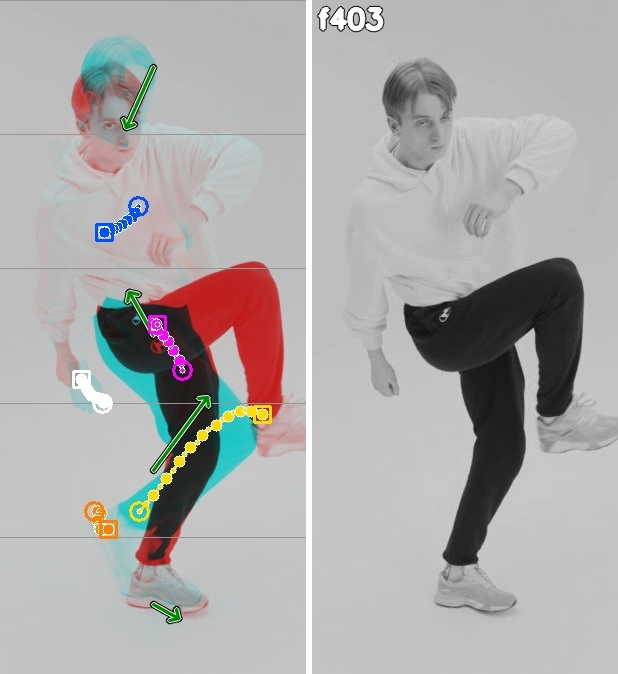
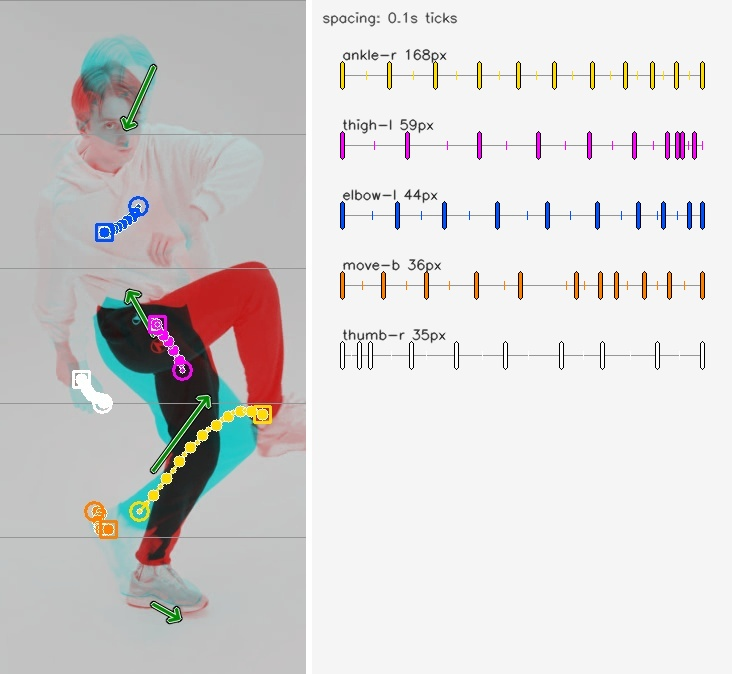
Onion: spacing chart; unlabelled mark trails; peak panel opt-in
- Each onion (look and mark) ends with an animator-style spacing chart: one
  equal-length line per trail, path length laid out along it, thick tick
  every 0.1 s. Steps under hold_step_px and jumps over missing frames add
  nothing; parts under 15 px are listed as still in their colour.
- mark onion: no on-picture names (they hid the trails); chart rows and
  mark.md (colour = name) carry the mapping. Camera-unknown mark onion is
  drawn in screen coordinates instead of being skipped.
- The frame-most-unlike-the-start panel is off by default; --peak on look
  and mark turns it on, placed left of the onion. Legends follow.
- README images/captions, guide, look-notes, manifest.

diff --git a/image_lens/onion.py b/image_lens/onion.py
@@ -136,6 +136,67 @@ def ticks(frames, fps):
     return out
 
 
+# The timing dots still merged where a part moved only a little (README examples: steps shorter than a dot). An
+# animator's spacing chart stretches each trail's path to one fixed-length line, so a 20 px move reads like a 300 px one.
+SPACING = dict(width=420, height=680, row=70, min_px=15., margin=30)
+
+
+def spacing_rows(trails, fps):
+    """[{point, length, ticks: [(fraction, timed)]}, ...] and the names of parts too still to chart. Path length grows
+    only by steps of at least motion_report STROKE['hold_step_px'], so a held part's jitter does not read as motion."""
+    from image_lens import motion_report
+    still = motion_report.STROKE['hold_step_px']; rows, skipped = [], []
+    for t in trails:
+        xy = [(x, y) for _, x, y in t['xy']]; frames = [n for n, _, _ in t['xy']]
+        cum = [0.]  # a jump over missing frames is not travel the chart can time (mark trial: one lost corner read 326 px)
+        for (a, b), (n, m) in zip(zip(xy, xy[1:]), zip(frames, frames[1:])):
+            d = math.dist(a, b) if m == n+1 else 0.; cum.append(cum[-1]+(d if d >= still else 0.))
+        if cum[-1] < SPACING['min_px']:
+            skipped.append(t['point']); continue
+        timed = ticks(frames, fps)
+        rows.append(dict(point=t['point'], length=cum[-1], ticks=[(c/cum[-1], i in timed or i == 0) for i, c in enumerate(cum)]))
+    return rows, skipped
+
+
+def spacing(video, image, trails, colors=None):
+    """Append the spacing chart right of the onion image: one equal-length line per trail, a thick tick every
+    TRAILS['tick_seconds'] and a thin one per frame at the fraction of path covered; close ticks = slow."""
+    import cv2
+    import numpy as np
+    picture = cv2.imread(str(image))
+    if picture is None or not trails:
+        return None
+    capture = cv2.VideoCapture(str(video)); fps = capture.get(cv2.CAP_PROP_FPS); capture.release()
+    rows, skipped = spacing_rows(trails, fps)
+    if not rows:
+        return None
+    h = picture.shape[0]; k = max(1., h/SPACING['height']); w = round(SPACING['width']*k)
+    panel = np.full((h, w, 3), 245, np.uint8); m = round(SPACING['margin']*k); x0, x1 = m, w-m
+    row = min(round(SPACING['row']*k), (h-2*m)//(len(rows)+1)); size, th = .45*k, max(1, round(k))
+    cv2.putText(panel, f"spacing: {TRAILS['tick_seconds']:g}s ticks", (round(10*k), round(22*k)), cv2.FONT_HERSHEY_SIMPLEX, size, (60, 60, 60), th, cv2.LINE_AA)
+    palette = {t['point']: c for t, c in zip(trails, colors or TRAILS['colors'])}
+    for i, r in enumerate(rows):
+        y = m+round(10*k)+row*i+row//2; c = palette[r['point']]; big, small = round(12*k), round(4*k)
+        cv2.line(panel, (x0, y), (x1, y), (150, 150, 150), th)
+        for f, timed in r['ticks']:
+            x = round(x0+(x1-x0)*f)
+            if timed:
+                cv2.line(panel, (x, y-big), (x, y+big), (0, 0, 0), 4*th); cv2.line(panel, (x, y-big), (x, y+big), c, 2*th)
+            else:
+                cv2.line(panel, (x, y-small), (x, y+small), c, th)
+        cv2.putText(panel, f"{r['point']} {r['length']:.0f}px", (x0, y-big-round(4*k)), cv2.FONT_HERSHEY_SIMPLEX, size, (40, 40, 40), th, cv2.LINE_AA)
+    x, y = x0, m+round(10*k)+row*len(rows)+row//2
+    for i, name in enumerate(skipped):  # each still name in its trail colour, outlined, so colour -> name stays readable
+        text = ('still: ' if i == 0 else '')+name+(',' if i < len(skipped)-1 else '')
+        cv2.putText(panel, text, (x, y), cv2.FONT_HERSHEY_SIMPLEX, size, (40, 40, 40), th+2, cv2.LINE_AA)
+        cv2.putText(panel, text, (x, y), cv2.FONT_HERSHEY_SIMPLEX, size, palette[name], th, cv2.LINE_AA)
+        x += cv2.getTextSize(text+' ', cv2.FONT_HERSHEY_SIMPLEX, size, th)[0][0]
+        if x > x1-round(60*k):
+            x, y = x0, y+round(24*k)
+    cv2.imwrite(str(image), np.hstack([picture, np.full((h, 6, 3), 255, np.uint8), panel]))
+    return dict(rows=[r['point'] for r in rows], still=skipped)
+
+
 def _image(cv2, np, first, last, box, result, path, trails=(), colors=None, named=False, fps=None):
     x0, y0, x1, y1 = box
     a = cv2.cvtColor(first, cv2.COLOR_BGR2GRAY)[y0:y1, x0:x1]; b = last[y0:y1, x0:x1]
@@ -185,7 +246,9 @@ def _image(cv2, np, first, last, box, result, path, trails=(), colors=None, name
 # The onion overlays start and end only: a spin or a hand that goes out and back ends where it began, so the overlay
 # looks still (clip B blind test, all three spins missed). The frame most unlike the start, away from both ends,
 # goes next to it.
-PEAK = dict(min_frames=8, margin=.15, scale=4, plateau=.95)
+# Off by default (user 2026-11-01): the strip, trails and spacing chart now cover turns and out-and-back moves, and the
+# extra panel cost a third of the picture width. `--peak` on look/mark turns it back on.
+PEAK = dict(min_frames=8, margin=.15, scale=4, plateau=.95, draw=False)
 
 
 def _crop(cv2, image, bbox):
@@ -196,7 +259,7 @@ def _crop(cv2, image, bbox):
 
 def peak(video, start, end, bbox, image):
     """Frame number of the frame most unlike `start` (mean grey difference inside the padded person box), searched
-    away from both window ends, drawn as a grey panel right of the onion image. None for short windows."""
+    away from both window ends, drawn as a grey panel left of the onion image. None for short windows."""
     import cv2
     import numpy as np
     if end-start+1 < PEAK['min_frames']:
@@ -218,11 +281,14 @@ def peak(video, start, end, bbox, image):
     n = plateau[len(plateau)//2]; frame = window[n-start]
     if image is None:
         return n
+    if not PEAK['draw']:
+        return None
     onion = cv2.imread(str(image))
     panel = cv2.cvtColor(cv2.cvtColor(_crop(cv2, frame, bbox), cv2.COLOR_BGR2GRAY), cv2.COLOR_GRAY2BGR)
     if onion is not None and onion.shape[0] == panel.shape[0]:
         _frame_label(cv2, panel, n)
-        cv2.imwrite(str(image), np.hstack([onion, np.full((onion.shape[0], 6, 3), 255, np.uint8), panel]))
+        # Plain frame first, then the onion with its trails next to the spacing chart: read the pose, then the motion.
+        cv2.imwrite(str(image), np.hstack([panel, np.full((onion.shape[0], 6, 3), 255, np.uint8), onion]))
     return n
 
 
@@ -363,7 +429,7 @@ def sheets(root, items):
     return written
 
 
-def lines(result, image_name=None, screen=False):
+def lines(result, image_name=None, screen=False, peak=False):
     from image_lens import motion_report
     parts = []
     for band in result:
@@ -378,8 +444,8 @@ def lines(result, image_name=None, screen=False):
     basis = '카메라 모름: 화면 좌표 그대로' if screen else '카메라 추정 시 평행이동 제외'
     out = [f'- 높이별 흐름 (사람 상자 5등분, {basis}): ' + ' · '.join(parts)]
     if image_name:
-        out.append(f"  - 어니언 그림: {image_name} (청록=시작, 빨강=끝(진한 윤곽선 기준; 배경보다 밝은 면은 띠 색이 반대(청록 띠=간 쪽); 카메라가 움직였으면 끝 프레임을 카메라만큼 되돌려 겹침), 초록 화살표=띠별 이동 ×{ONION['arrow_scale']}(그림 밖으로 나가면 줄임, 머리보다 짧으면 생략); 오른쪽 회색=시작과 가장 다른 가운데 프레임; "
-                   f"색 점선=부위별 대표 점(몸 기준이 없으면 '화면'에 적힌 점)의 프레임마다 위치({'·'.join(TRAILS['names'])} 순, {basis}), 큰 원·네모=각 연속 관측의 시작·끝, 선 끊김=관측 누락, 이어진 점 간격이 좁으면 느림·넓으면 빠름, 조금 큰 점={TRAILS['tick_seconds']:g}초마다(그 간격이 좁아지면 느려짐))")
+        out.append(f"  - 어니언 그림: {image_name} (청록=시작, 빨강=끝(진한 윤곽선 기준; 배경보다 밝은 면은 띠 색이 반대(청록 띠=간 쪽); 카메라가 움직였으면 끝 프레임을 카메라만큼 되돌려 겹침), 초록 화살표=띠별 이동 ×{ONION['arrow_scale']}(그림 밖으로 나가면 줄임, 머리보다 짧으면 생략); {'왼쪽 회색=시작과 가장 다른 가운데 프레임; ' if peak else ''}"
+                   f"색 점선=부위별 대표 점(몸 기준이 없으면 '화면'에 적힌 점)의 프레임마다 위치({'·'.join(TRAILS['names'])} 순, {basis}), 큰 원·네모=각 연속 관측의 시작·끝, 선 끊김=관측 누락, 이어진 점 간격이 좁으면 느림·넓으면 빠름, 조금 큰 점={TRAILS['tick_seconds']:g}초마다(그 간격이 좁아지면 느려짐); 맨 오른쪽 spacing=부위마다 지나온 길이를 같은 길이 줄로 펼친 것, 굵은 눈금={TRAILS['tick_seconds']:g}초마다·가는 눈금=프레임마다, 눈금이 모이면 느림·벌어지면 빠름(작은 이동도 같은 크기로 보임, {SPACING['min_px']:g}px 미만 부위는 still))")
     return out
 
 

diff --git a/image_lens/digest.py b/image_lens/digest.py
@@ -438,8 +438,8 @@ def markdown(record, scan, full_name):
         out.insert(-1, '그림과 같이 읽기: 글만으로는 중간 동작·손 모양·닿음이 빠진다. 아래 그림을 모두 열어 글과 같이 본다. 가장 믿을 만한 근거는 궤적이 그려진 어니언 그림이다(실제 장면 위에 추적한 점을 프레임마다 그대로 찍은 것이고, 글은 그것을 줄인 것). 글과 그림이 어긋나면 그림을 믿는다. 그다음 strip, 전체 화면 모음(시간 순서). '
                        '단, 어니언에서 그 부위의 청록·빨강 윤곽선이 벌어진 만큼 궤적(과 글의 숫자)이 따라가지 않으면(짧거나 다른 방향) 추적이 미끄러진 것으로 의심한다(카메라 추정 시 어니언과 궤적의 평행이동을 뺐다).')
     if record.get('onion_sheets'):
-        out.insert(-1, f"어니언 모음 그림: {', '.join(record['onion_sheets'])} (구간마다 청록=시작, 빨강=끝(진한 윤곽선 기준; 배경보다 밝은 면은 띠 색이 반대(청록 띠=간 쪽); 카메라가 움직였으면 끝 프레임을 카메라만큼 되돌려 겹침), 초록 화살표=높이별 이동, 오른쪽 회색=시작과 가장 다른 가운데 프레임: 돌거나 갔다 돌아오는 동작은 여기서 보임; "
-                       f"색 점선=각 줄 \"몸 기준\"의 부위 대표 점 궤적, 몸 기준이 없는 줄은 \"화면\"에 적힌 점의 궤적({'·'.join(onion.TRAILS['names'])} = 그 줄에 적힌 순서, 점 하나가 한 프레임, 카메라 추정 시 평행이동 제외, 큰 원=시작·큰 네모=끝, 점 간격이 좁으면 느림, 조금 큰 점={onion.TRAILS['tick_seconds']:g}초마다(그 간격이 좁아지면 느려짐)); "
+        out.insert(-1, f"어니언 모음 그림: {', '.join(record['onion_sheets'])} (구간마다 청록=시작, 빨강=끝(진한 윤곽선 기준; 배경보다 밝은 면은 띠 색이 반대(청록 띠=간 쪽); 카메라가 움직였으면 끝 프레임을 카메라만큼 되돌려 겹침), 초록 화살표=높이별 이동, {'왼쪽 회색=시작과 가장 다른 가운데 프레임: 돌거나 갔다 돌아오는 동작은 여기서 보임; ' if any(w.get('peak') for s in record.get('shots', []) for w in s.get('windows', [])) else ''}"
+                       f"색 점선=각 줄 \"몸 기준\"의 부위 대표 점 궤적, 몸 기준이 없는 줄은 \"화면\"에 적힌 점의 궤적({'·'.join(onion.TRAILS['names'])} = 그 줄에 적힌 순서, 점 하나가 한 프레임, 카메라 추정 시 평행이동 제외, 큰 원=시작·큰 네모=끝, 점 간격이 좁으면 느림, 조금 큰 점={onion.TRAILS['tick_seconds']:g}초마다(그 간격이 좁아지면 느려짐); 맨 오른쪽 spacing=부위마다 지나온 길이를 같은 길이 줄로 펼친 것, 굵은 눈금이 모이면 느림·벌어지면 빠름, 작은 이동의 완급은 여기서 봄); "
                        '"who"=사람이 여럿인 구간의 P1·P2 상자; "still"=추적하기엔 짧은 컷의 한 장면, 붙어 있는 컷은 한 줄에 시간 순서; "strip"=몸 돌림 후보 구간의 프레임 5장을 시간 순서로). '
                        '손 모양(하트·브이)처럼 글에 안 나오는 동작은 그림에서 본다.')
     if record.get('frame_sheets'):

diff --git a/tests/test_onion.py b/tests/test_onion.py
@@ -133,6 +133,19 @@ class Trails(unittest.TestCase):
         self.assertTrue(all('평행이동 제외' not in l for l in onion.lines(bands,'x-onion.jpg',screen=True)))
         self.assertIn('카메라 추정 시 평행이동 제외',onion.lines(bands,'x-onion.jpg')[0])
 
+    def test_spacing_rows_stretch_the_path_and_ignore_held_jitter(self):
+        slowing=dict(point='hand',xy=[(n,x,0.) for n,x in enumerate((0,20,38,52,62,68,71))])
+        jitter=dict(point='hip',xy=[(n,10+.5*(n%2),0.) for n in range(20)])
+        small=dict(point='toe',xy=[(n,4.*n,0.) for n in range(3)])
+        rows,still=onion.spacing_rows([slowing,jitter,small],30)
+        self.assertEqual([r['point'] for r in rows],['hand']); self.assertEqual(still,['hip','toe'])
+        hand=rows[0]; self.assertAlmostEqual(hand['length'],71.)
+        self.assertEqual([round(f,3) for f,timed in hand['ticks'] if timed],[0.,round(52/71,3),1.])
+        held=dict(point='arm',xy=[(n,(0,0,.3,.6,.9,30,60)[n],0.) for n in range(7)])
+        self.assertEqual(onion.spacing_rows([held],30)[0][0]['ticks'][4][0],0.)  # sub-threshold steps add nothing
+        lost=dict(point='corner',xy=[(0,0.,0.),(1,2.,0.),(9,300.,0.)])
+        self.assertEqual(onion.spacing_rows([lost],30),([],['corner']))  # a jump over missing frames is not travel
+
     def test_timing_dot_is_drawn_larger(self):
         import tempfile
         import cv2
@@ -218,7 +231,14 @@ class Peak(unittest.TestCase):
             out.release()
             bbox = (40, 60, 280, 180); image = Path(d)/'o.jpg'
             onion.bands(video, 0, 20, bbox, None, image); width = cv2.imread(str(image)).shape[1]
-            self.assertIn(onion.peak(video, 0, 20, bbox, image), (9, 10, 11))
+            self.assertIsNone(onion.peak(video, 0, 20, bbox, image))  # off by default: the picture is left alone
+            self.assertEqual(cv2.imread(str(image)).shape[1], width)
+            self.assertIn(onion.peak(video, 0, 20, bbox, None), (9, 10, 11))
+            onion.PEAK['draw'] = True
+            try:
+                self.assertIn(onion.peak(video, 0, 20, bbox, image), (9, 10, 11))
+            finally:
+                onion.PEAK['draw'] = False
             self.assertGreater(cv2.imread(str(image)).shape[1], 2*width)
             self.assertEqual(onion.still(video, 3, None, Path(d)/'s.jpg'), 's.jpg')
             self.assertEqual(onion.strip(video, 0, 20, bbox, Path(d)/'t.jpg')['frames'][0], 0)

diff --git a/image_lens/cli.py b/image_lens/cli.py
@@ -149,8 +149,11 @@ def dispatch(command, arguments):
         ap.add_argument('--frame', type=int, required=True); ap.add_argument('--end', type=int)
         ap.add_argument('--point', action='append', required=True, help='name=x,y in source pixels; repeat up to 8 times')
         ap.add_argument('--no-snap', action='store_true', help='keep the given positions instead of the nearest corner')
+        ap.add_argument('--peak', action='store_true', help='add the frame most unlike the start left of the onion')
         ap.add_argument('--checkpoint', help='default: models.json'); ap.add_argument('--out', required=True, help='new output directory')
         a = models(ap.parse_args(arguments), 'checkpoint')
+        from image_lens import onion
+        onion.PEAK['draw'] = a.peak
         return mark.run(a.video, a.shots, a.frame, a.point, a.checkpoint, a.out, a.end, not a.no_snap)
     if command == 'focus':
         from image_lens import digest
@@ -180,9 +183,12 @@ def dispatch(command, arguments):
         ap.add_argument('--pose-model', help='default: models.json'); ap.add_argument('--checkpoint', help='default: models.json')
         ap.add_argument('--out', required=True, help='new output directory inside the workspace')
         ap.add_argument('--max-shots', type=int, default=look.LOOK['max_shots']); ap.add_argument('--max-seconds', type=int, default=1800)
+        ap.add_argument('--peak', action='store_true', help='add the frame most unlike the start left of each onion')
         a = models(ap.parse_args(arguments), 'detector', 'pose_model', 'checkpoint')
         if not 1 <= a.max_shots <= 256 or not 60 <= a.max_seconds <= 7200:
             raise ValueError('--max-shots 1..256 and --max-seconds 60..7200')
+        from image_lens import onion
+        onion.PEAK['draw'] = a.peak
         return look.run(a.video, a.detector, a.pose_model, a.checkpoint, a.out, a.max_shots, a.max_seconds)
     if command == 'pose':
         from image_lens import pose

diff --git a/image_lens/look.py b/image_lens/look.py
@@ -471,10 +471,11 @@ def _run(video, detector, pose_model, checkpoint, out, max_shots=LOOK['max_shots
                         done['mark_hint'] = hint; slot.append('  '+_mark_hint(hint, source, root/'shots.json'))
                 done['onion'] = picture.name
                 done['peak'] = onion.peak(source, w['seed'], end, person['bbox'], picture)
+                done['spacing'] = onion.spacing(source, picture, done['trails'])
                 turns = [e['share'] for e in (done.get('events') or {}).get('width', []) if e['share'] >= body_motion.EVENTS['turn']]
                 if turns:
                     done['turn_share'] = max(turns); stripping.append((done, end, person['bbox'], base))
-                slot += ['  '+l for l in onion.lines(done['bands'], picture.name, screen=done.get('onion_basis') == 'screen')]
+                slot += ['  '+l for l in onion.lines(done['bands'], picture.name, screen=done.get('onion_basis') == 'screen', peak=bool(done.get('peak')))]
             except Exception as error:  # OpenCV raises its own error type; the view is optional
                 errors.append(dict(window=w, step='onion', error=str(error)[:300]))
         if end < w['end']:

diff --git a/docs/README.en.md b/docs/README.en.md
@@ -85,9 +85,9 @@ One line from the `look.md` of a live-action solo dance video, the span where th
 - `높이별` (by height): movement measured in 5 bands from top to bottom of the area where the person is; `?` means that band could not be measured.
 - `몸 돌림 후보` (turn candidate): a place marked for checking because the estimate wavered.
 
-<p align="center"><img src="../assets/example-onion.jpg" width="420" alt="An onion picture made by look. On the left the start frame (cyan) and end frame (red) are overlaid; a yellow dotted trail follows the right leg from low up to knee height, and green arrows show movement by height. On the right is the middle frame f403 with the knee raised."></p>
+<p align="center"><img src="../assets/example-onion.jpg" width="560" alt="An onion picture made by look. On the left the start frame (cyan) and end frame (red) are overlaid; a yellow dotted trail follows the right leg from low up to knee height, and green arrows show movement by height. On the right is the spacing chart."></p>
 
-The onion skin of the same span. The left side overlays the start (cyan) and the end (red). The dotted trails are the parts in the order `몸 기준` lists them: yellow (right leg), magenta (left leg), blue (left arm)… One dot is one frame; a slightly bigger dot marks every 0.1 s, so where those get closer the part slowed down. A circle is the start, a square the end. Green arrows are the `높이별` movement. The right side is the middle frame most different from the start (f403).
+The onion skin of the same span. The left panel overlays the start (cyan) and the end (red). The dotted trails are the parts in the order `몸 기준` lists them: yellow (right leg), magenta (left leg), blue (left arm)… One dot is one frame; a slightly bigger dot marks every 0.1 s, so where those get closer the part slowed down. A circle is the start, a square the end. Green arrows are the `높이별` movement. The right panel is a spacing chart: each part's path stretched to one equal-length line, with a thick tick every 0.1 s. Close ticks mean slow, wide ticks fast, so the ease of a small move reads here too.
 
 The tool was also confused in this example: the shoulder width changed as the leg came up, so a turn candidate was marked although the body did not turn. The left arm's speed also came out unknown.
 
@@ -95,7 +95,7 @@ Video: Antoni Shkraba, ["Video of a Man Dancing"](https://www.pexels.com/video/v
 
 #### Animation
 
-<p align="center"><img src="../assets/example-live2d-onion.jpg" width="560" alt="An onion picture of a 2D animated character. On the left the start (cyan) and end (red) are overlaid; magenta and yellow dotted trails run side by side from the fingertips at the hat brim outward, and a blue trail follows the elbow a short way down. The cyan and red outlines of the hat and face split apart where the head tilted. On the right is frame f35, near the end."></p>
+<p align="center"><img src="../assets/example-live2d-onion.jpg" width="720" alt="An onion picture of a 2D animated character. On the left the start (cyan) and end (red) are overlaid; magenta and yellow dotted trails run side by side from the fingertips at the hat brim outward, and a blue trail follows the elbow a short way down. The cyan and red outlines of the hat and face split apart where the head tilted. On the right is the spacing chart."></p>
 
 2D illustrated and animated characters read the same way. In this 1.5 s move the hand at the hat brim sweeps outward while the head tilts; its easing follows the speed changes this tool measured in another reference video. The two fingertip points (magenta, yellow) draw side-by-side arcs, and the hat and face outlines split as far as the head tilted. `몸 기준` says the left arm went right 124 px fast, then 68 px more while slowing. The background is plain, so the camera is "모름" (unknown).
 

diff --git a/docs/look-notes.md b/docs/look-notes.md
@@ -313,3 +313,11 @@ The authored return now retains90px and f9. Isolated-error, below-resolution and
 Every frame's trail dot looked evenly spaced even where the speed fell: in the Live2D sweep the hand point moved 18-21 px/f for ten frames and then 15, 11, 6, 7, 3, 0, and the last six dots merged into one blob. Trails now draw a slightly larger dot every 0.1 s (fps-derived, counted from the start of each continuous run); the same point's steps over three frames read 39, 61, 54, 32, 10 px, which shows the settle at a glance. Per-frame dots stay, smaller.
 
 The coordinate fix (#65) dropped the onion entirely when a camera path existed but its end-frame translation was unknown. On plain backgrounds that is the usual case (both README examples), and the picture the summary calls the main evidence disappeared. Such windows now draw the onion and trails in screen coordinates, record `onion_basis: "screen"`, and say so in the line (`높이별(화면 좌표, 카메라 모름)`) and in the onion captions.
+
+## Spacing chart, unlabelled mark trails, peak panel off (2026-11-01)
+
+The 0.1 s dots still merged where a part moved only a little: in both README examples most steps were shorter than a dot. Each onion now ends with an animator-style spacing chart: one equal-length line per trail, the path length laid out along it (steps under `hold_step_px` 0.75 px/f add nothing, so a held part's jitter does not read as ease; a jump over missing frames adds nothing either: a lost hammer corner first read 326 px), a thick tick every 0.1 s and a thin one per frame. Parts under 15 px are listed as still in their trail colour. On the Live2D sweep the hand rows read bunched -> wide -> bunched (hold, fast start, settle), which the 30 px trail itself did not show.
+
+Mark trails lost their on-picture names: the large labels covered the trails and outlines the reader needs. The chart rows carry the names in trail colour order, and mark.md lists colour = name.
+
+The frame-most-unlike-the-start panel is now off by default and `--peak` turns it on (placed left of the onion when on). It was added because the onion only overlays the ends and a spin read as still (clip B); the turn-candidate strip, the per-frame trails and the chart now cover that, and the panel cost a third of the picture width. The camera-unknown mark onion is drawn in screen coordinates like look's, instead of being skipped.

diff --git a/docs/guide.md b/docs/guide.md
@@ -115,7 +115,7 @@ Notes that change how to read a line:
 
 ### Pictures
 
-- `<window>-onion.jpg`: the first frame in cyan and the last in red, with band shifts as arrows (doubled; shortened to stay inside the picture, left out when shorter than the arrow head; the text keeps the measured shift). A grey panel on the right shows the frame most unlike the first, so a move that goes out and comes back is not read as still. Each part's lead point is drawn as white-rimmed dots, one per frame (big circle at the start, big square at the end): wide spacing is fast, tight spacing is slow.
+- `<window>-onion.jpg`: the first frame in cyan and the last in red, with band shifts as arrows (doubled; shortened to stay inside the picture, left out when shorter than the arrow head; the text keeps the measured shift). Each part's lead point is drawn as white-rimmed dots, one per frame, with a slightly bigger dot every 0.1 s (big circle at the start, big square at the end): wide spacing is fast, tight spacing is slow. A spacing chart on the right stretches each trail's path (steps under 0.75 px/f left out) to one equal-length line with a thick tick every 0.1 s, so the ease of a small move reads as well as a large one; parts under 15 px are listed as still. `--peak` (look and mark) adds, on the left, a grey panel of the frame most unlike the first; it is off by default because the turn strip, the trails and the chart cover out-and-back moves.
 - `onion-sheet-N.jpg`: all onion images of the run with their time ranges. Ranges too short to track appear as a single "still" frame, and the six windows most likely to show a turn get a strip of five frames.
 - `frame-sheet-N.jpg`: whole frames spread evenly over the clip, about one per 1.25 s, up to 96.
 - `check-sheet-N.jpg`: one per "먼저 확인할 곳" span, dense frames in time order.
